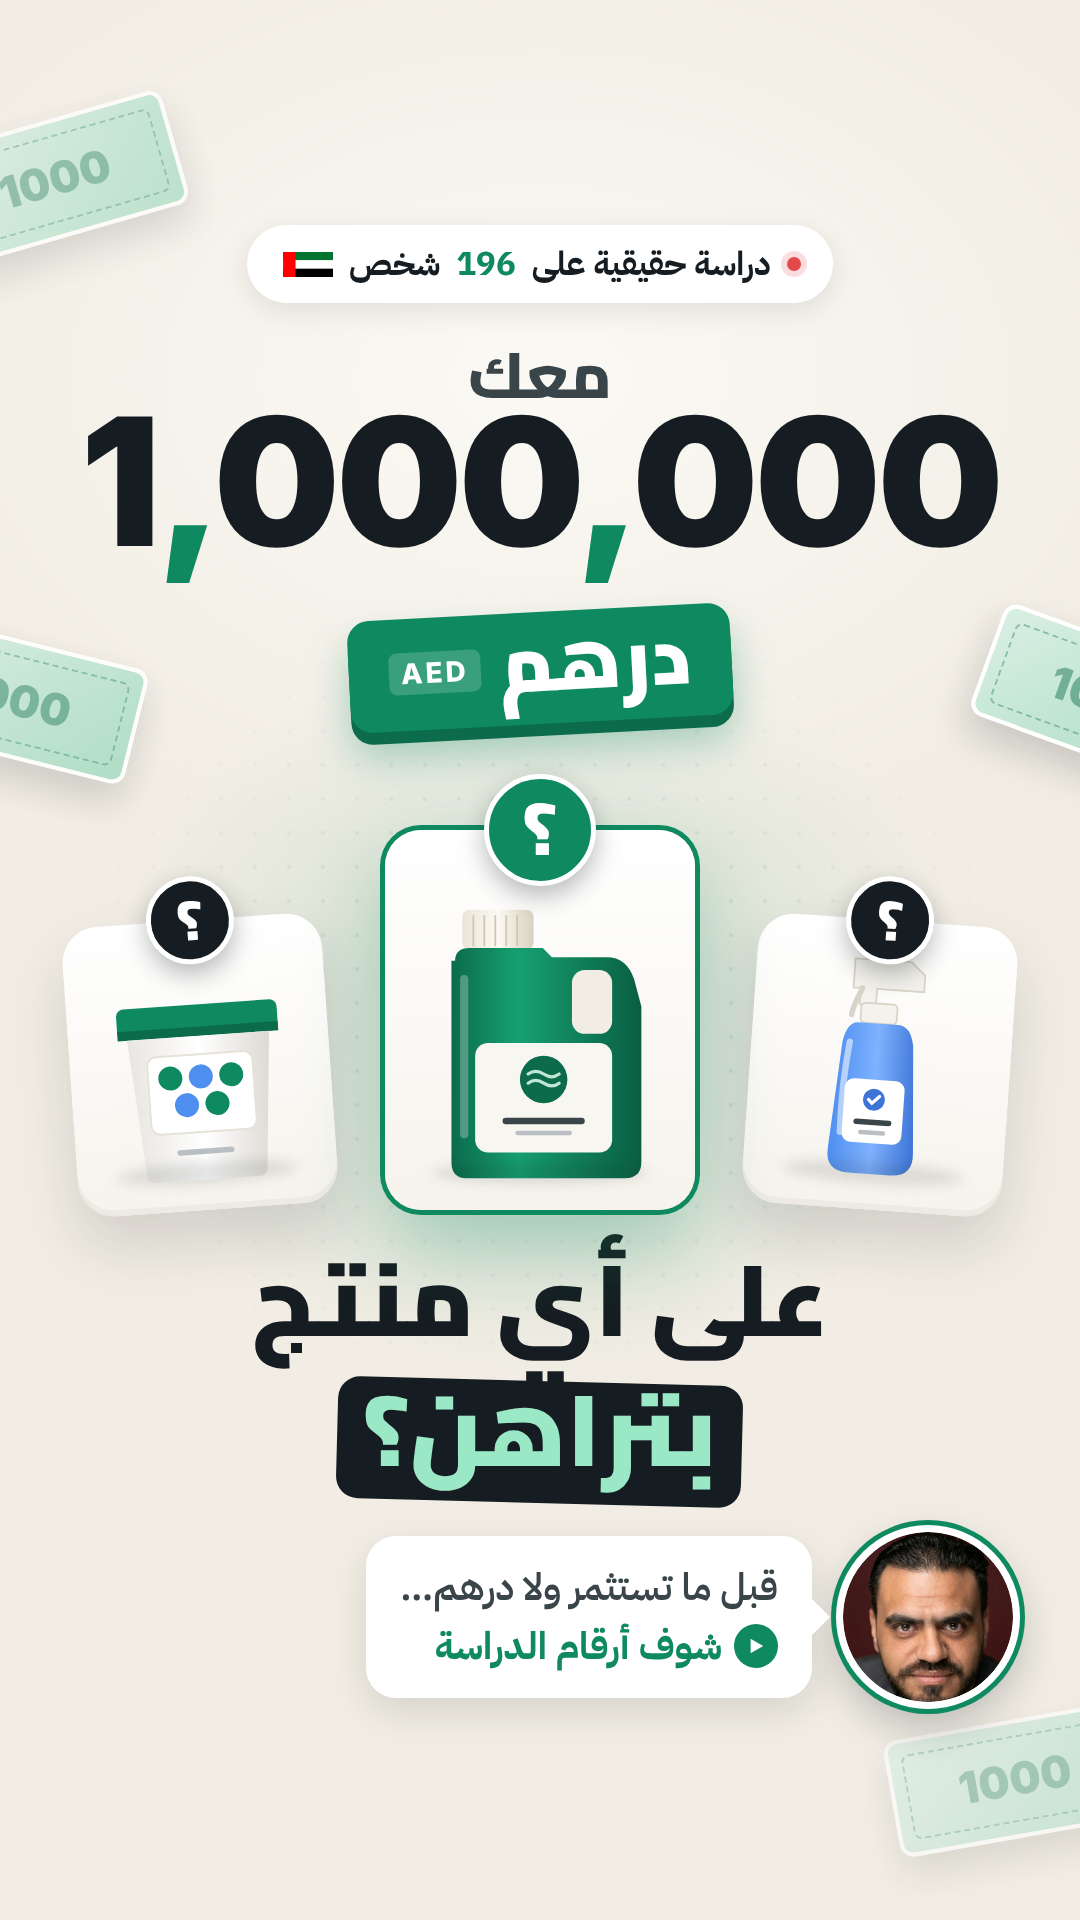
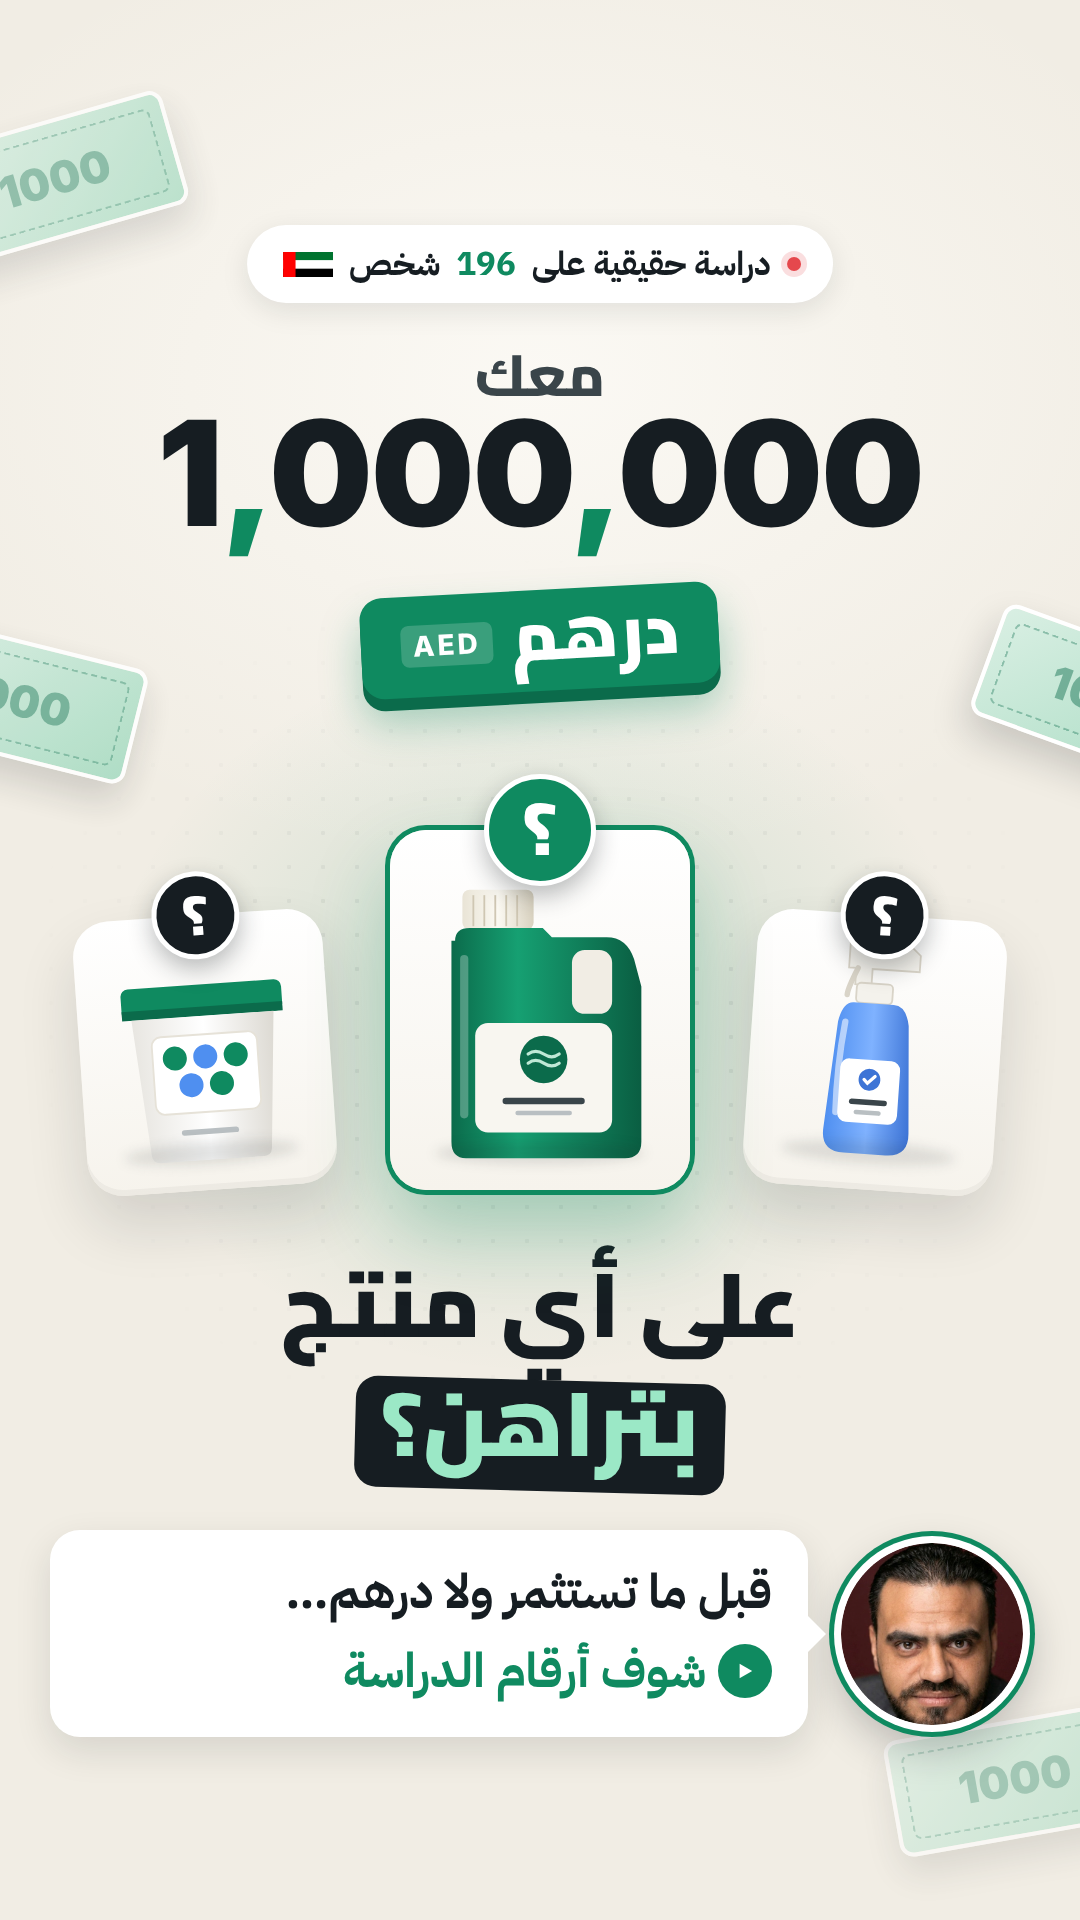
Refine v4 cover: smaller amount, more spacing, larger presenter text
Claude-Session: https://claude.ai/code/session_01LaJ2kQpgoAoaXCJxoVCC9S

diff --git a/reel-cover/cover-v4.html b/reel-cover/cover-v4.html
@@ -29,21 +29,21 @@
   .pill b{color:var(--green)}
   .live{width:14px;height:14px;border-radius:50%;background:#e5484d;box-shadow:0 0 0 6px rgba(229,72,77,.18)}
 
-  .ma3ak{position:absolute;top:315px;width:100%;text-align:center;font-weight:800;font-size:64px;color:var(--slate)}
-  .num{position:absolute;top:393px;width:100%;text-align:center;direction:ltr;font:900 178px/1 Inter;letter-spacing:-4px;color:var(--ink)}
+  .ma3ak{position:absolute;top:320px;width:100%;text-align:center;font-weight:800;font-size:58px;color:var(--slate)}
+  .num{position:absolute;top:400px;width:100%;text-align:center;direction:ltr;font:900 146px/1 Inter;letter-spacing:-2px;color:var(--ink)}
   .num i{font-style:normal;color:var(--green)}
-  .aed{position:absolute;top:612px;left:50%;transform:translateX(-50%) rotate(-3deg);display:flex;align-items:center;gap:18px;
+  .aed{position:absolute;top:590px;left:50%;transform:translateX(-50%) rotate(-3deg);display:flex;align-items:center;gap:18px;
        background:var(--green);color:#fff;border-radius:22px;padding:6px 40px 18px;box-shadow:0 12px 0 var(--green2),0 24px 40px rgba(15,138,96,.35)}
-  .aed b{font-weight:900;font-size:80px;line-height:1.1}
+  .aed b{font-weight:900;font-size:70px;line-height:1.1}
   .aed span{direction:ltr;font:800 28px Inter;letter-spacing:3px;background:rgba(255,255,255,.18);border-radius:8px;padding:4px 12px;margin-top:10px}
 
   /* product podium */
-  .row{position:absolute;top:790px;left:70px;right:70px;height:420px}
-  .card{position:absolute;bottom:0;width:260px;height:290px;border-radius:36px;background:linear-gradient(180deg,#ffffff,#f6f3ec);
+  .row{position:absolute;top:790px;left:80px;right:80px;height:400px}
+  .card{position:absolute;bottom:0;width:250px;height:275px;border-radius:36px;background:linear-gradient(180deg,#ffffff,#f6f3ec);
         box-shadow:0 30px 60px rgba(22,29,34,.14), inset 0 -6px 0 rgba(22,29,34,.04);display:flex;align-items:flex-end;justify-content:center;padding-bottom:30px}
   .card.l{right:0;transform:rotate(4deg)}
   .card.r{left:0;transform:rotate(-4deg)}
-  .card.m{left:50%;margin-left:-155px;width:310px;height:380px;z-index:2;
+  .card.m{left:50%;margin-left:-150px;width:300px;height:360px;z-index:2;
           box-shadow:0 0 0 5px var(--green),0 40px 80px rgba(15,138,96,.30)}
   .card svg{display:block}
   .q{position:absolute;top:-44px;left:50%;transform:translateX(-50%);width:88px;height:88px;border-radius:50%;
@@ -51,21 +51,21 @@
   .card.m .q{width:112px;height:112px;top:-56px;font-size:74px;line-height:98px;background:var(--green)}
   .shadow{position:absolute;bottom:26px;left:50%;transform:translateX(-50%);width:70%;height:22px;border-radius:50%;background:rgba(22,29,34,.12);filter:blur(6px)}
 
-  .head{position:absolute;top:1235px;width:100%;text-align:center;font-weight:900;font-size:100px;line-height:1.3;color:var(--ink)}
+  .head{position:absolute;top:1245px;width:100%;text-align:center;font-weight:900;font-size:90px;line-height:1.32;color:var(--ink)}
   .head .hl{position:relative;display:inline-block;color:#fff;padding:0 26px 8px}
   .head .hl::before{content:"";position:absolute;inset:16px 0 0 0;background:var(--ink);border-radius:22px;transform:rotate(1.5deg);z-index:-1}
   .head .hl{isolation:isolate}
   .head .hl em{font-style:normal;color:var(--mint)}
 
-  .presenter{position:absolute;top:1525px;left:60px;right:60px;display:flex;align-items:center;gap:24px}
-  .av{flex:none;position:relative;width:184px;height:184px;border-radius:50%;padding:7px;background:#fff;
+  .presenter{position:absolute;top:1530px;left:50px;right:50px;display:flex;align-items:center;gap:26px}
+  .av{flex:none;position:relative;width:196px;height:196px;border-radius:50%;padding:7px;background:#fff;
       box-shadow:0 0 0 5px var(--green),0 18px 40px rgba(22,29,34,.25)}
   .av img{width:100%;height:100%;border-radius:50%;display:block}
-  .bubble{position:relative;background:#fff;border-radius:30px;padding:24px 34px;box-shadow:0 14px 36px rgba(22,29,34,.12);
-          font-family:'IBM Plex Sans Arabic';font-weight:600;font-size:38px;line-height:1.45;color:var(--slate)}
+  .bubble{position:relative;background:#fff;border-radius:30px;flex:1;padding:26px 36px 30px;box-shadow:0 14px 36px rgba(22,29,34,.12);
+          font-family:"IBM Plex Sans Arabic";font-weight:700;font-size:48px;line-height:1.5;color:var(--ink)}
   .bubble::before{content:"";position:absolute;right:-18px;top:50%;margin-top:-18px;border:18px solid transparent;border-left-color:#fff;border-right:0}
   .bubble b{color:var(--green);font-weight:700;display:inline-flex;align-items:center;gap:12px}
-  .play{width:44px;height:44px;border-radius:50%;background:var(--green);display:inline-grid;place-items:center}
+  .play{width:54px;height:54px;border-radius:50%;background:var(--green);display:inline-grid;place-items:center}
 </style>
 </head>
 <body>
